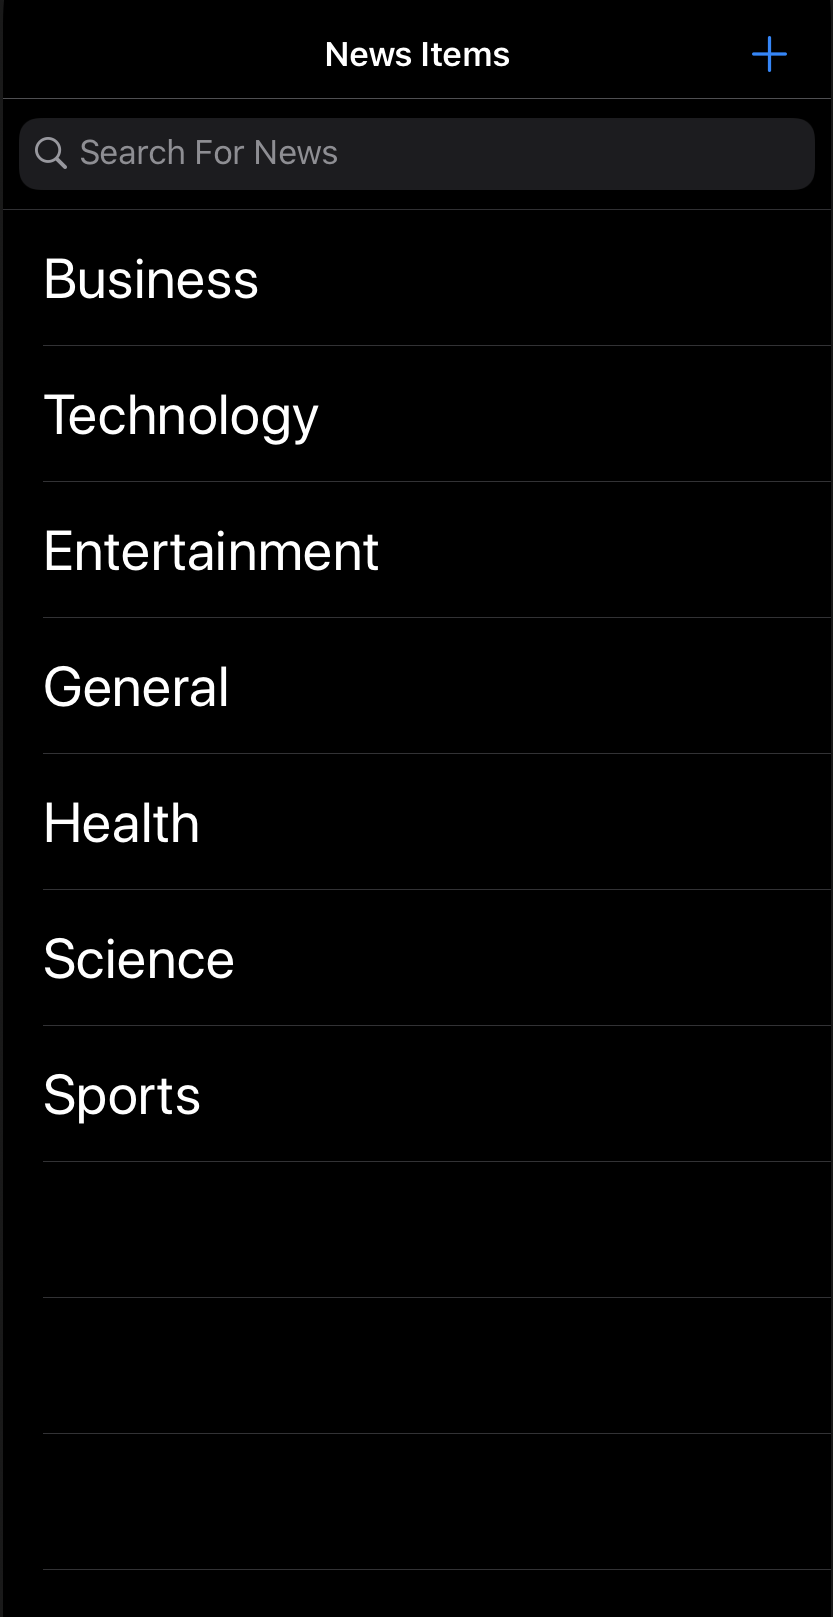
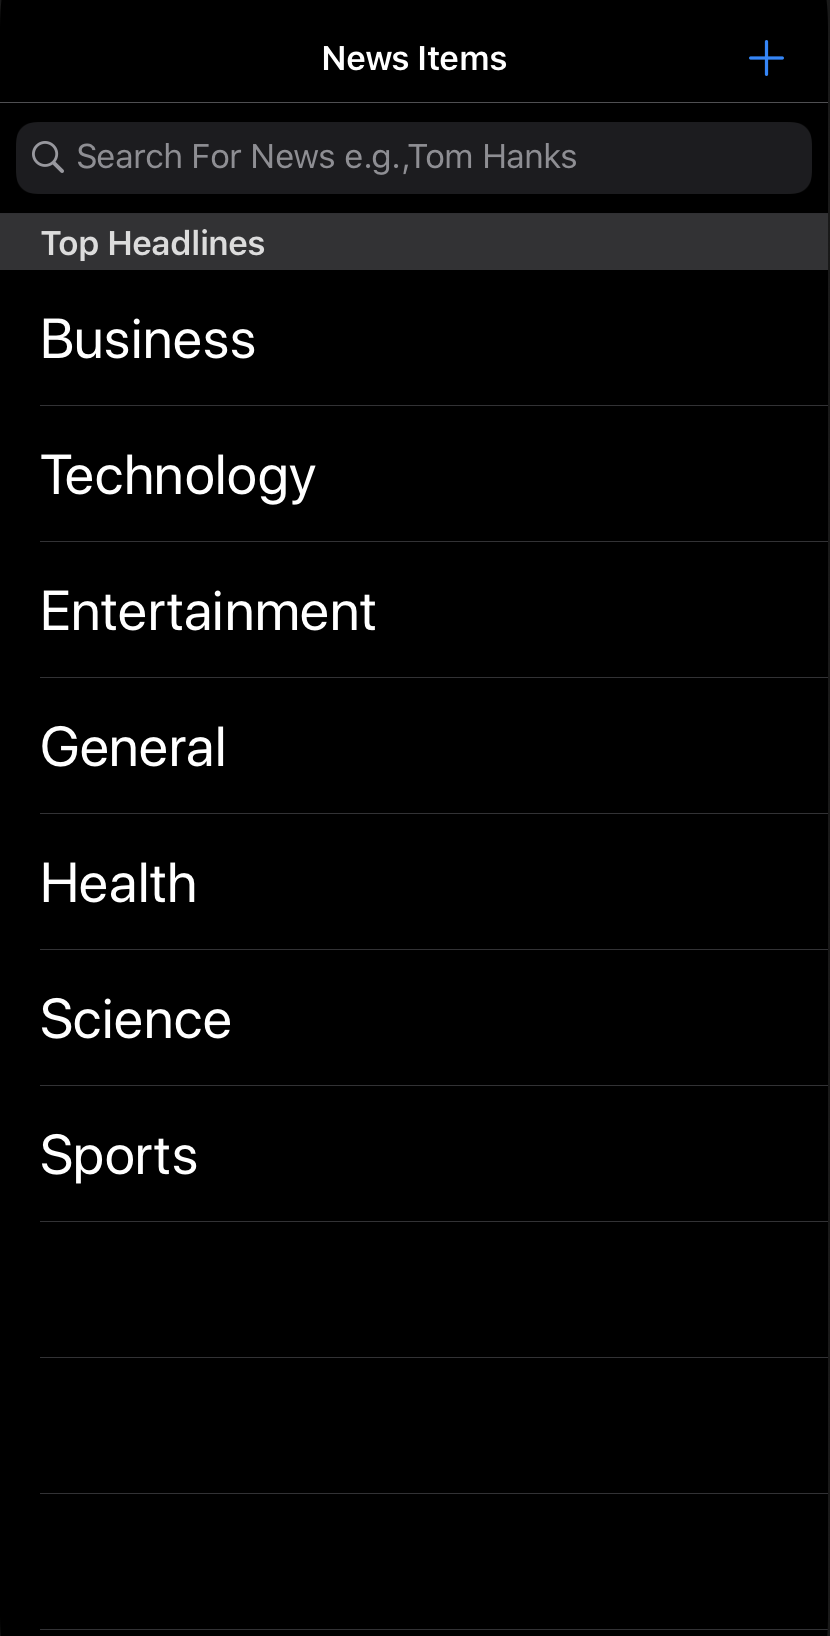
Updated screenshots and Section heading

Changed region(s): [[0.0, 0.0309, 1.0, 0.9895], [0.3916, 0.0309, 0.6325, 0.0928], [0.9036, 0.0309, 0.9337, 0.0618]]

diff --git a/GoodNews/Controllers/NewsItemController.swift b/GoodNews/Controllers/NewsItemController.swift
@@ -16,7 +16,7 @@ class NewsItemController: UITableViewController, UISearchBarDelegate {
         print("The view did load")
         super.viewDidLoad()
         searchBar.delegate = self
-        searchBar.placeholder = "Search For News"
+        searchBar.placeholder = "Search For News e.g.,Tom Hanks"
         DispatchQueue.main.async {
             self.tableView.reloadData()
         }
@@ -26,6 +26,9 @@ class NewsItemController: UITableViewController, UISearchBarDelegate {
     }
     override func tableView(_ tableView: UITableView, numberOfRowsInSection section: Int) -> Int {
         return self.titles.count
+    }
+    override func tableView(_ tableView: UITableView, titleForHeaderInSection section: Int) -> String? {
+        return "Top Headlines"
     }
     override func tableView(_ tableView: UITableView, cellForRowAt indexPath: IndexPath) -> UITableViewCell {
         guard let cell = tableView.dequeueReusableCell(withIdentifier: "NewsItemCell", for: indexPath) as? NewsItemCell else {

diff --git a/GoodNews/Controllers/NewsListenerController.swift b/GoodNews/Controllers/NewsListenerController.swift
@@ -41,7 +41,7 @@ class NewsListenerController: UITableViewController {
                 if dataFetched {
                     self.tableView.reloadData()
                 } else {
-                    self.showAlert(with: "Fetch Failed", message: "Please try again", action: "Ok")
+                    self.showAlert(with: "Couldn't Fetch Articles", message: "Please try again", action: "Ok")
                 }
             }
         }
